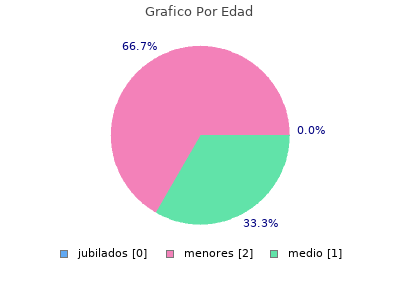
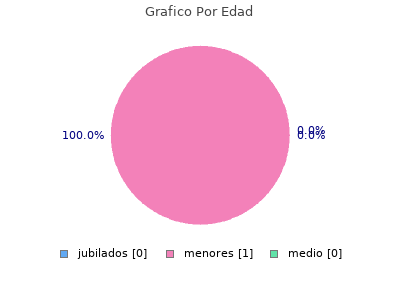
solucionado busqueda con admin y editor, y responsive

diff --git a/public/css/home.css b/public/css/home.css
@@ -280,6 +280,9 @@ a {
         justify-content: center;
         margin-bottom: 3em;
     }
+    .admin-container {
+        margin-top:4rem;
+    }
 }
 @media screen and (max-width: 1300px) {
     .ranking{

diff --git a/model/AdminModel.php b/model/AdminModel.php
@@ -112,7 +112,7 @@ class AdminModel{
     }
 
     public function agarrarTodosLosUsuarios($tiempo){
-        $sql = 'SELECT * FROM user WHERE fecha_de_creacion >= DATE_SUB(CURDATE(), INTERVAL ' . $tiempo . ' DAY)';
+        $sql = 'SELECT * FROM user WHERE fecha_de_creacion >= DATE_SUB(CURDATE(), INTERVAL ' . $tiempo . ' DAY) AND esAdmin = 0 AND esEditor = 0';
         return $this->database->query($sql);
     }
 
@@ -197,21 +197,6 @@ class AdminModel{
 
         $pdf = new FPDF();
         $pdf->AddPage();
-
-//        $this->crearGrafico($this->getGruposDeEdad(300), "Grafico Por Edad", "graficoPorEdadTotal");
-//        $this->crearGrafico($this->cantidadUsuariosPorSexo(300), "Grafico Por Sexos", "graficoPorSexoTotal");
-//        $this->crearGraficoPaises(300, "Total");
-//        $this->crearGrafico($this->getPorcentajePreguntasRespondidas(1000),
-//            "Preguntas respondidas bien por usuario", "graficoPreguntasBienTotal");
-//
-//        $imagePath = ['public/images/graficos/graficoPreguntasBienTotal.png',
-//            'public/images/graficos/graficoPorSexoTotal.png',
-//            'public/images/graficos/graficoPorEdadTotal.png',
-//            'public/images/graficos/graficoPaisesTotal.png'];
-//
-//        foreach($imagePath as $image){
-//            $pdf->Image($image, 10, 10, 90);
-//        }
 
         $pdf->SetFont('Arial', 'B', 16);
         $titulo = "Reporte de Questionario";

diff --git a/model/UserModel.php b/model/UserModel.php
@@ -136,7 +136,7 @@ class UserModel{
         if(empty($usernameBuscado)){
             return false;
         } else{
-            $sql = "SELECT * FROM user WHERE username LIKE '%$usernameBuscado%'";
+            $sql = "SELECT * FROM user WHERE username LIKE '%$usernameBuscado%' AND esAdmin = 0 AND esEditor = 0";
             return  $this->database->query($sql);
         }
     }
